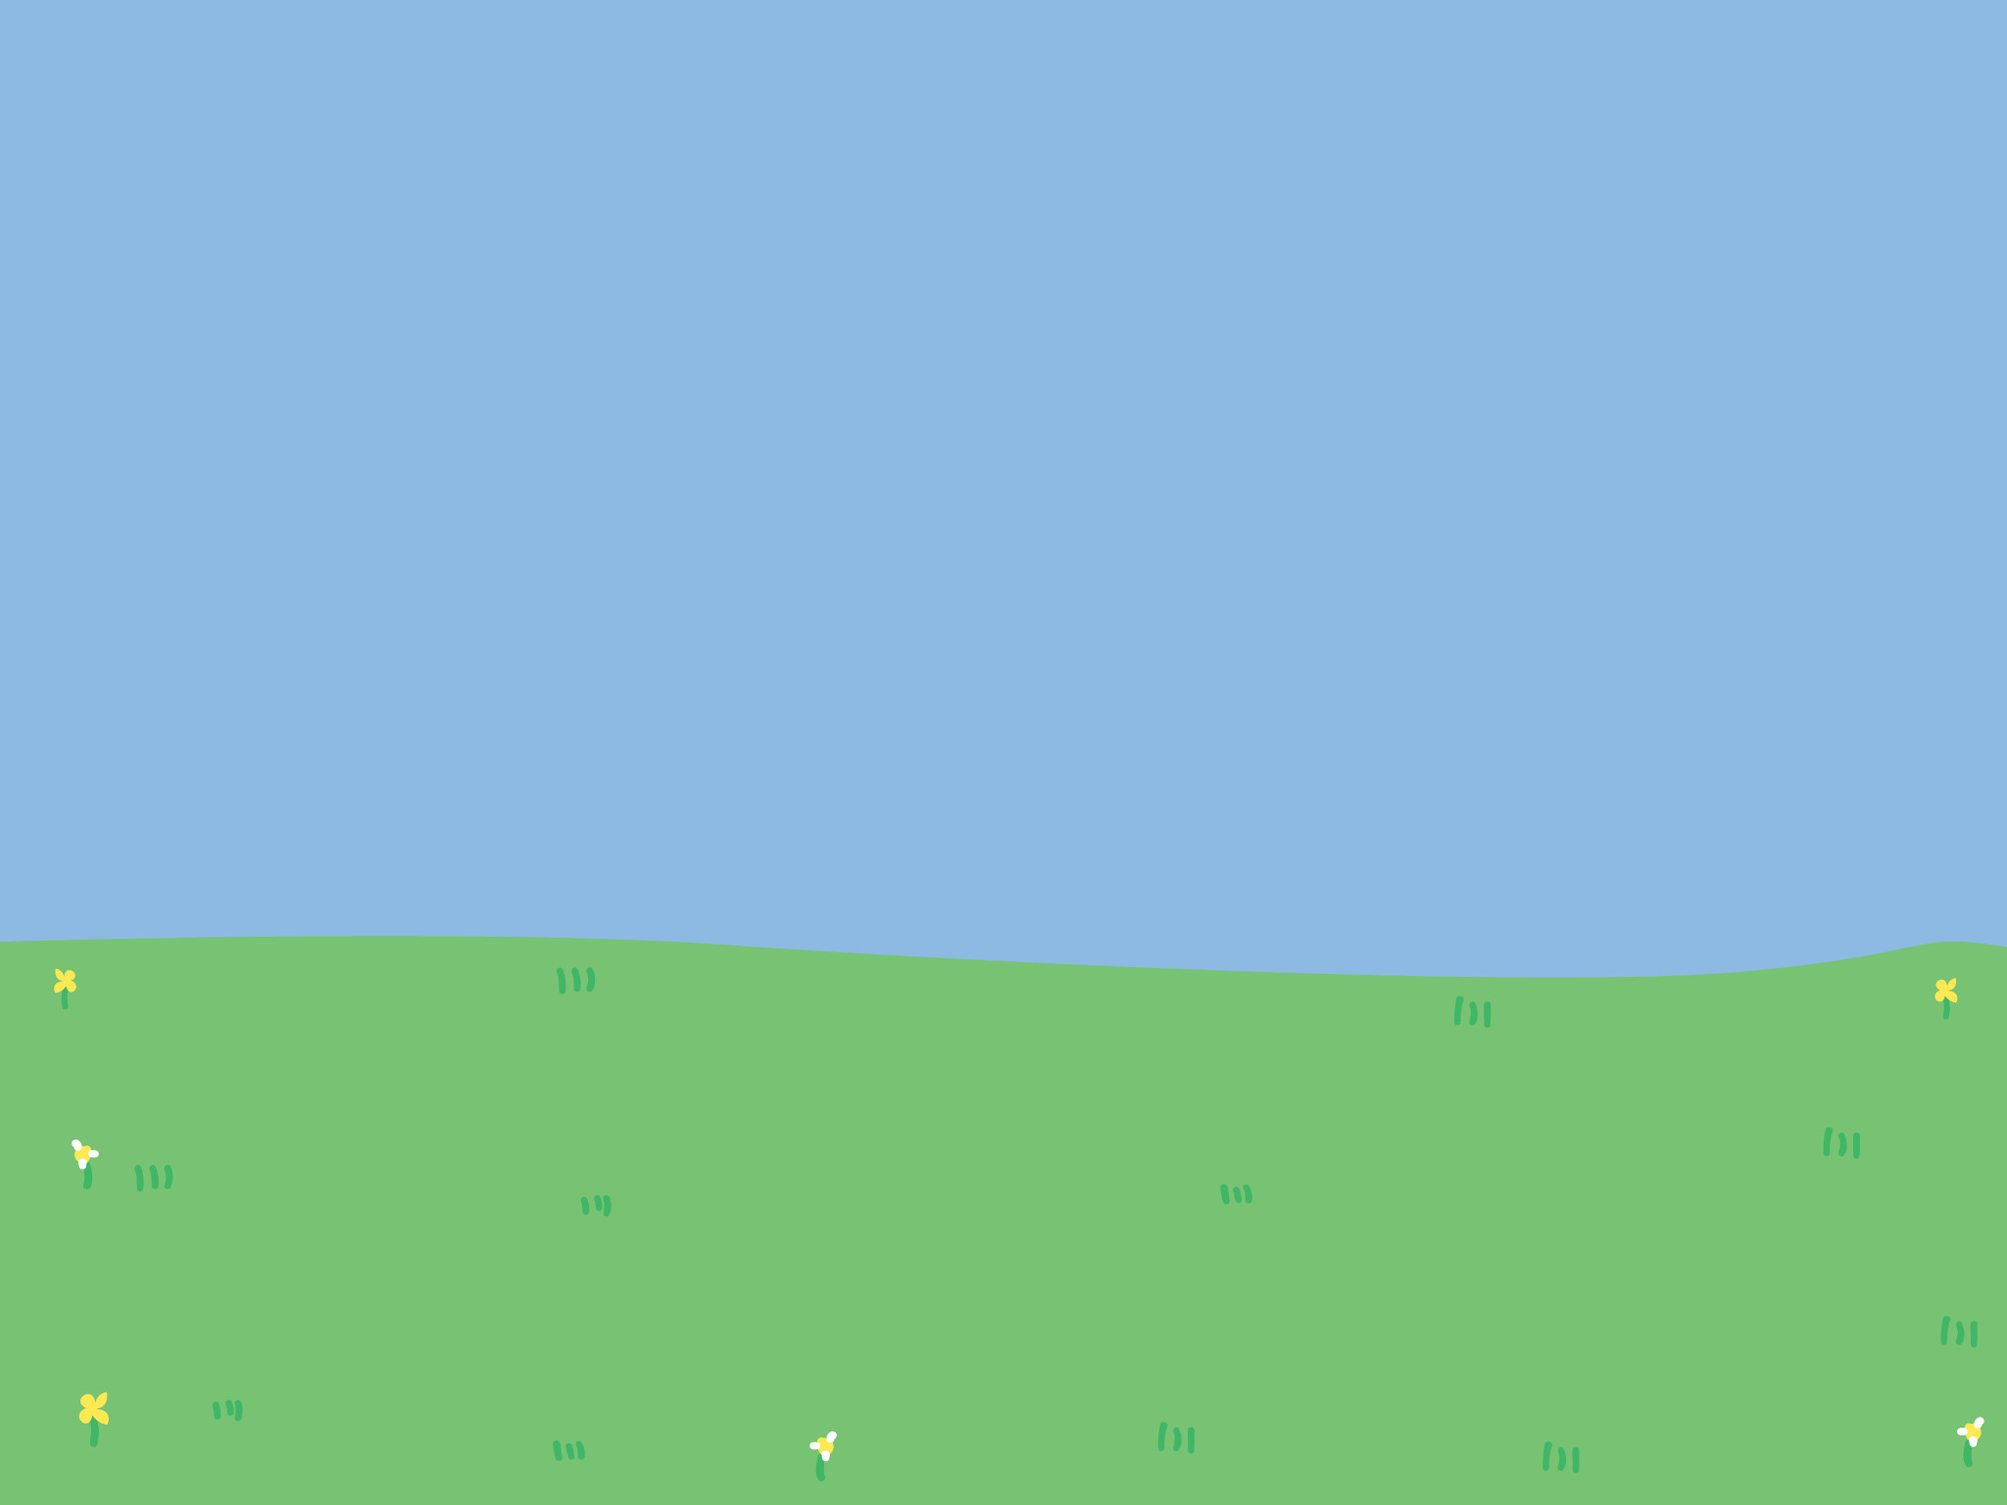
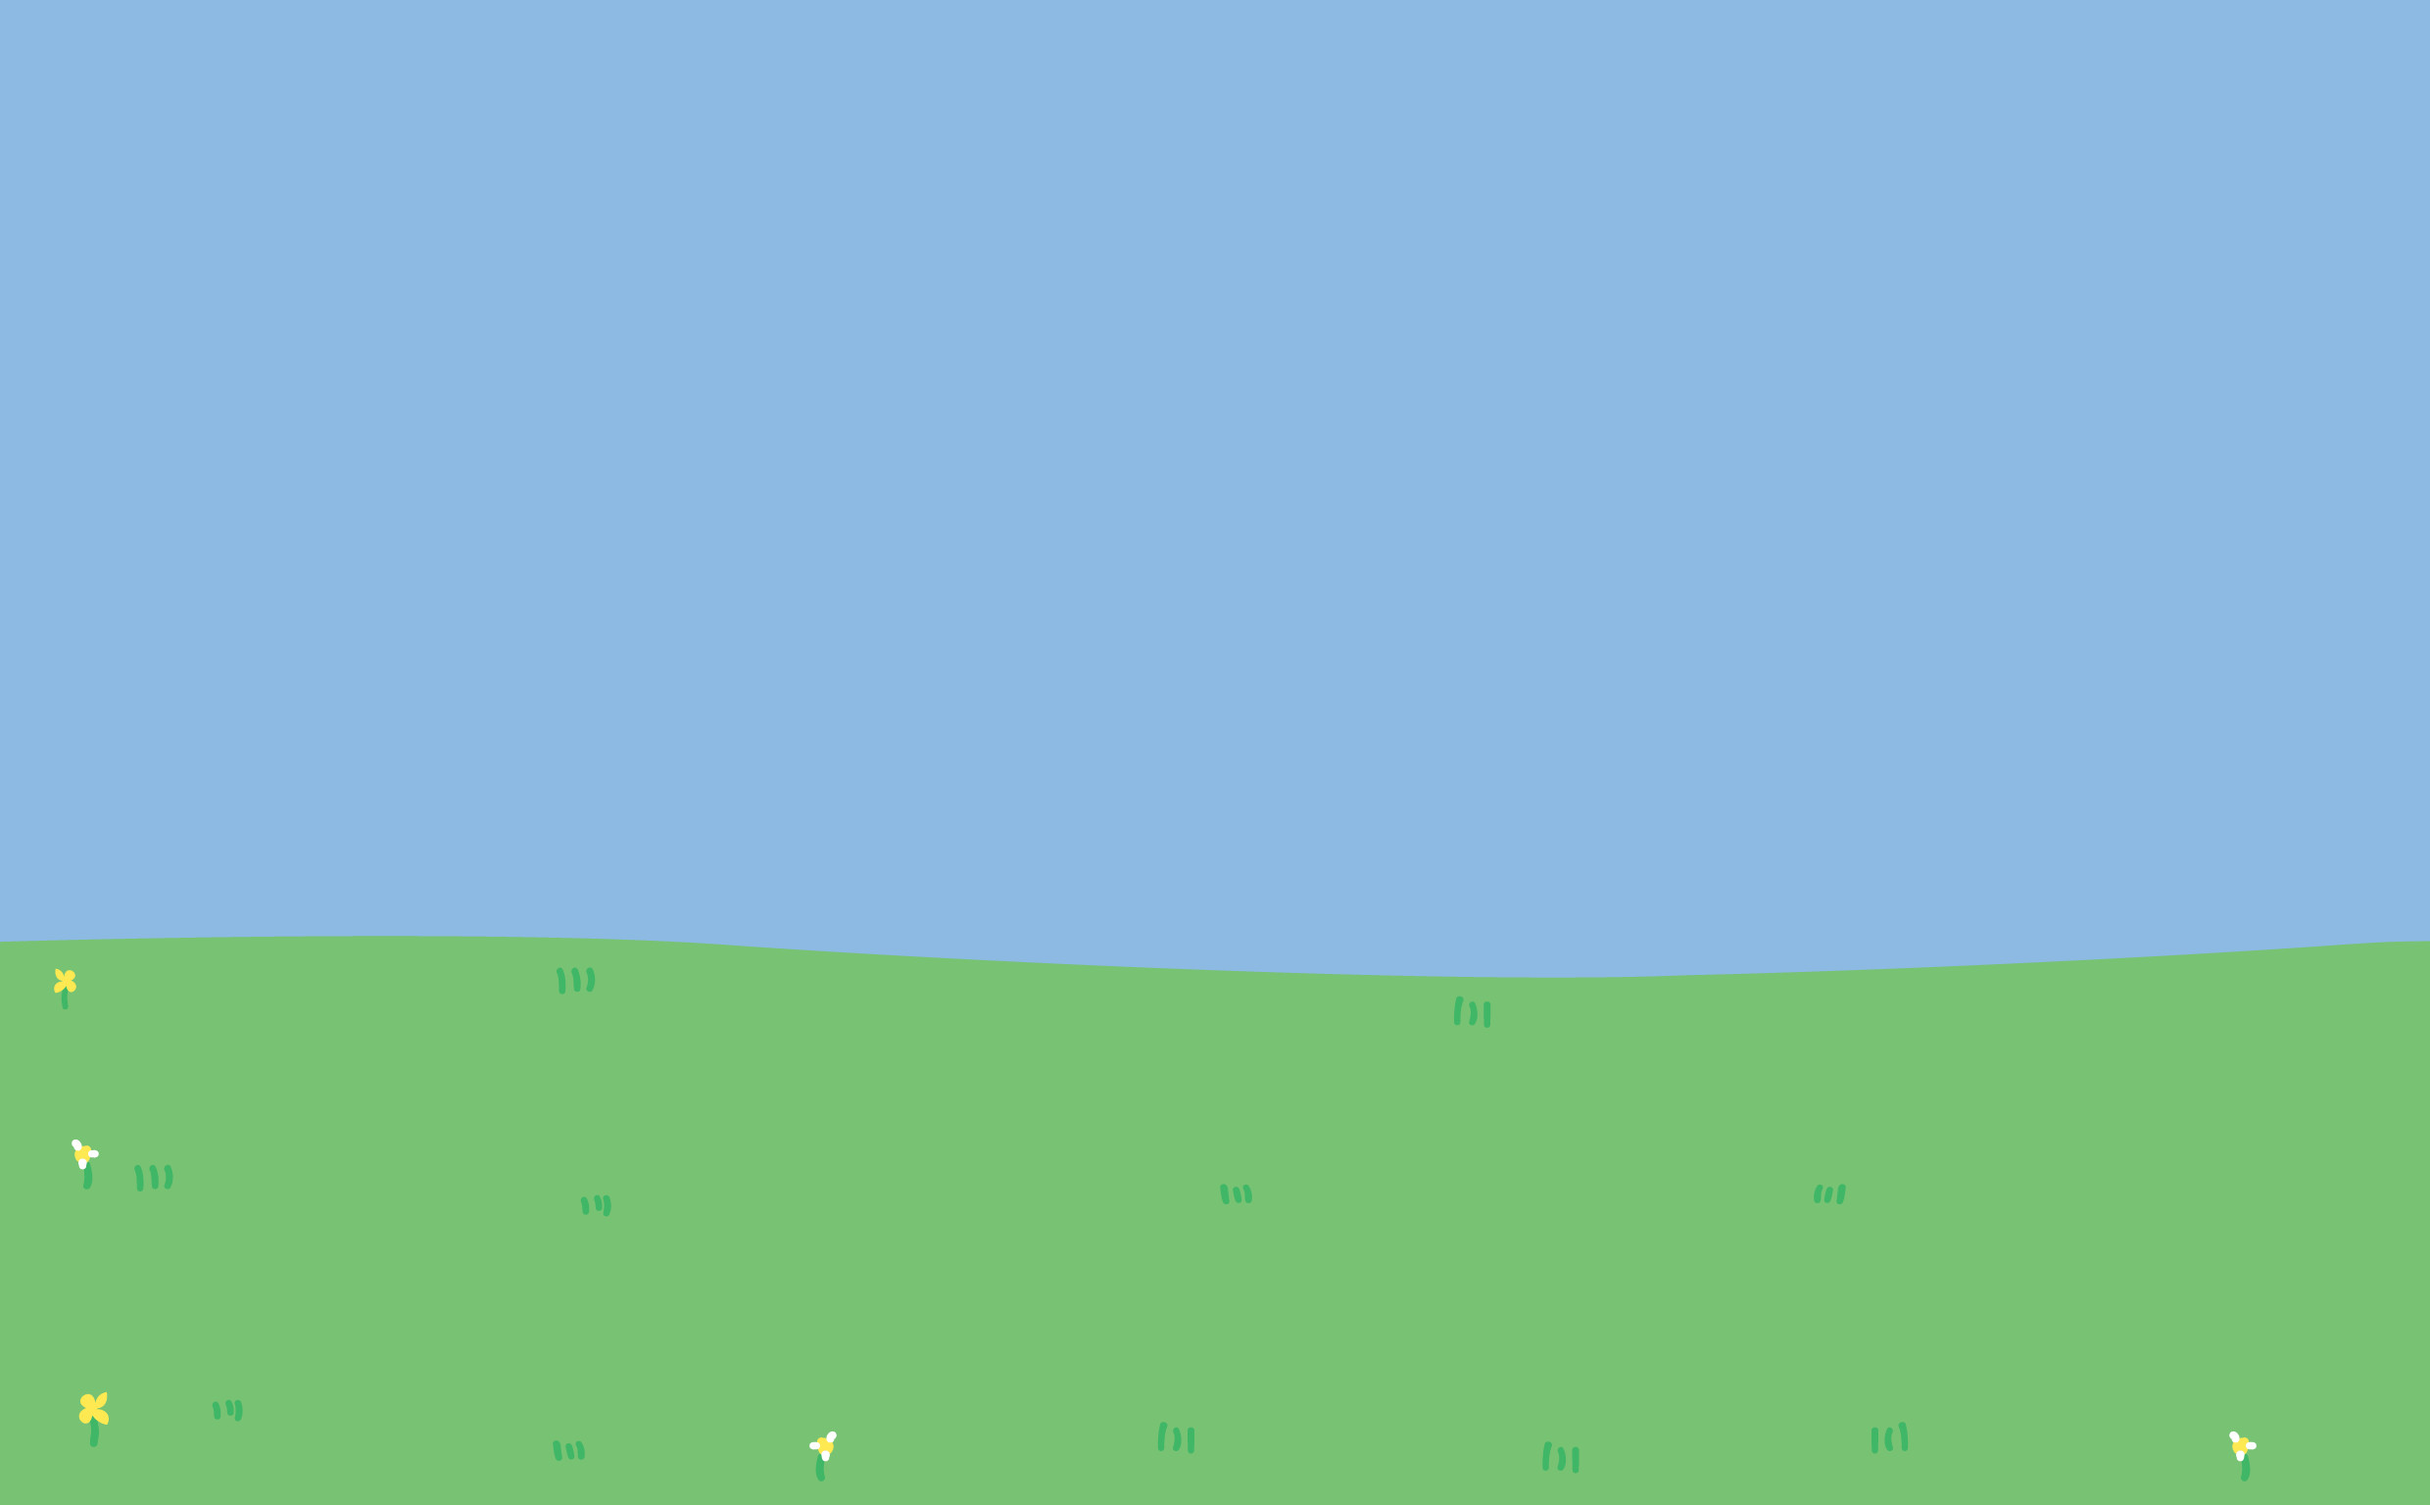
asd

diff --git a/inicio.html b/inicio.html
@@ -9,8 +9,9 @@
 </head>
     <body>
         <h1>WELCOME TO PEPA</h1>
-        <button id="boton-casa"><img src="assets/casa.png" alt="home"></button>
-
+        <a id="boton-casa" href="https://benjadosmiltrece.github.io/inicio"> <img src="assets/casa.png"> </a>
+        <a id="boton-yt" href="https://benjadosmiltrece.github.io/pepa"> <img src="assets/youtube.png"> </a>
+        <a id="boton-info" href="https://benjadosmiltrece.github.io/wiki"> <img src="assets/info.png"> </a>
 
         <script src="bootstrap/bootstrap.min.js"></script>
     </body>

diff --git a/styles.css b/styles.css
@@ -1,14 +1,21 @@
 body {
+    background-repeat: no-repeat;
     background-image: url(assets/fondo.png);
-    background-size: 75%;
+    background-size: cover;
+    background-color: #78C273;
 }
 
 h1 {
     text-align: center;
 }
 
+#boton-casa, #boton-yt, #boton-info {
+    margin: 0;
+    padding: 0;
+    margin-left: 20px;
+    display: block;
+}
+
 #boton-casa {
-    scale: 20%;
-    background-color: #08000000;
-    border-color: #00000800;
+    margin-bottom: 10px;
 }

diff --git a/pepa.html b/pepa.html
@@ -8,6 +8,7 @@
     <title>pepa</title>
 </head>
 <body>
+    <iframe width="1310" height="581" src="https://www.youtube.com/embed/Yeazlthytpc" title="Peppa Pig Full Episodes 🔴 LIVE! Full Episodes STREAMING NOW 🎭 Kids Videos 💕" frameborder="0" allow="accelerometer; autoplay; clipboard-write; encrypted-media; gyroscope; picture-in-picture; web-share" allowfullscreen></iframe>
     <script src="bootstrap/bootstrap.min.js"></script>
 </body>
 </html>
